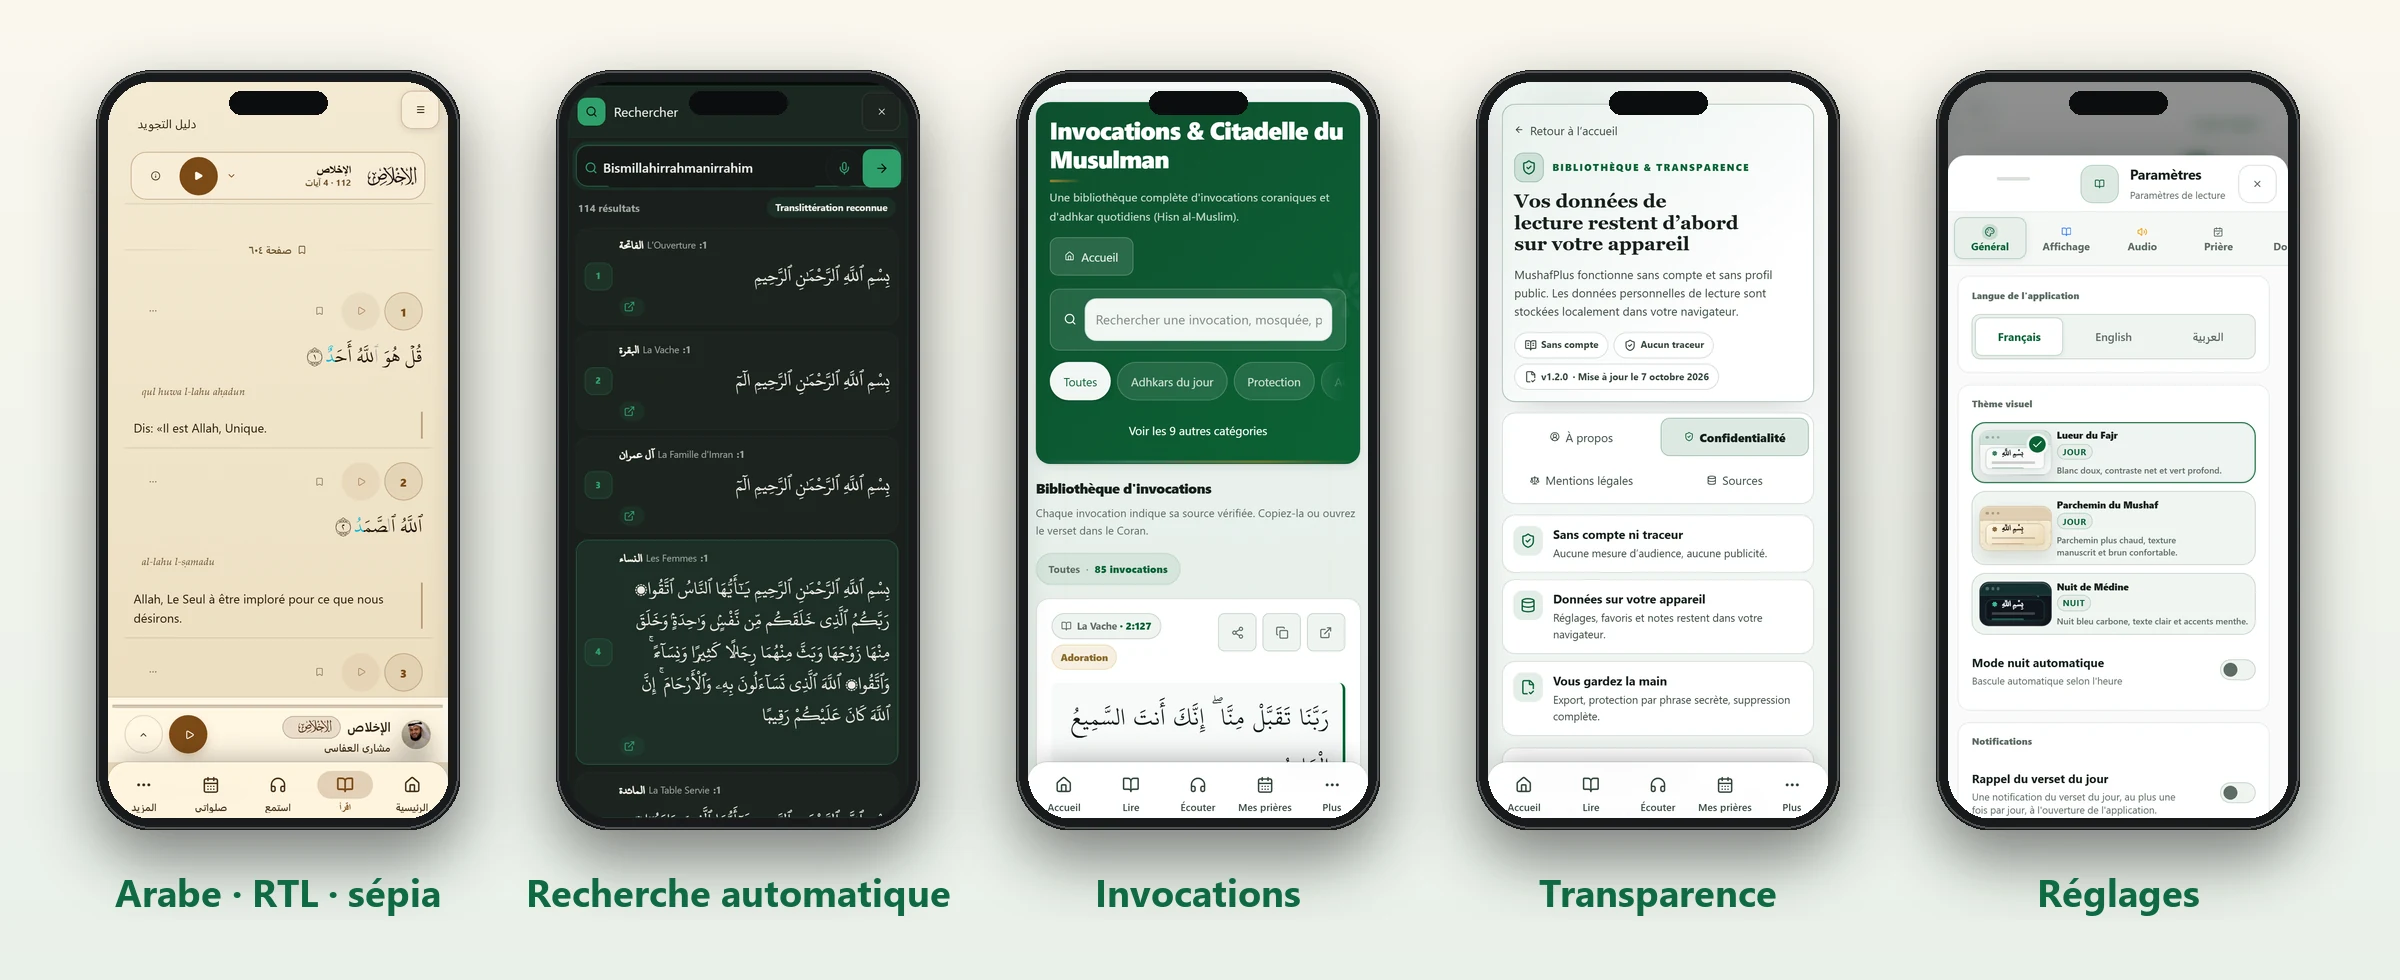
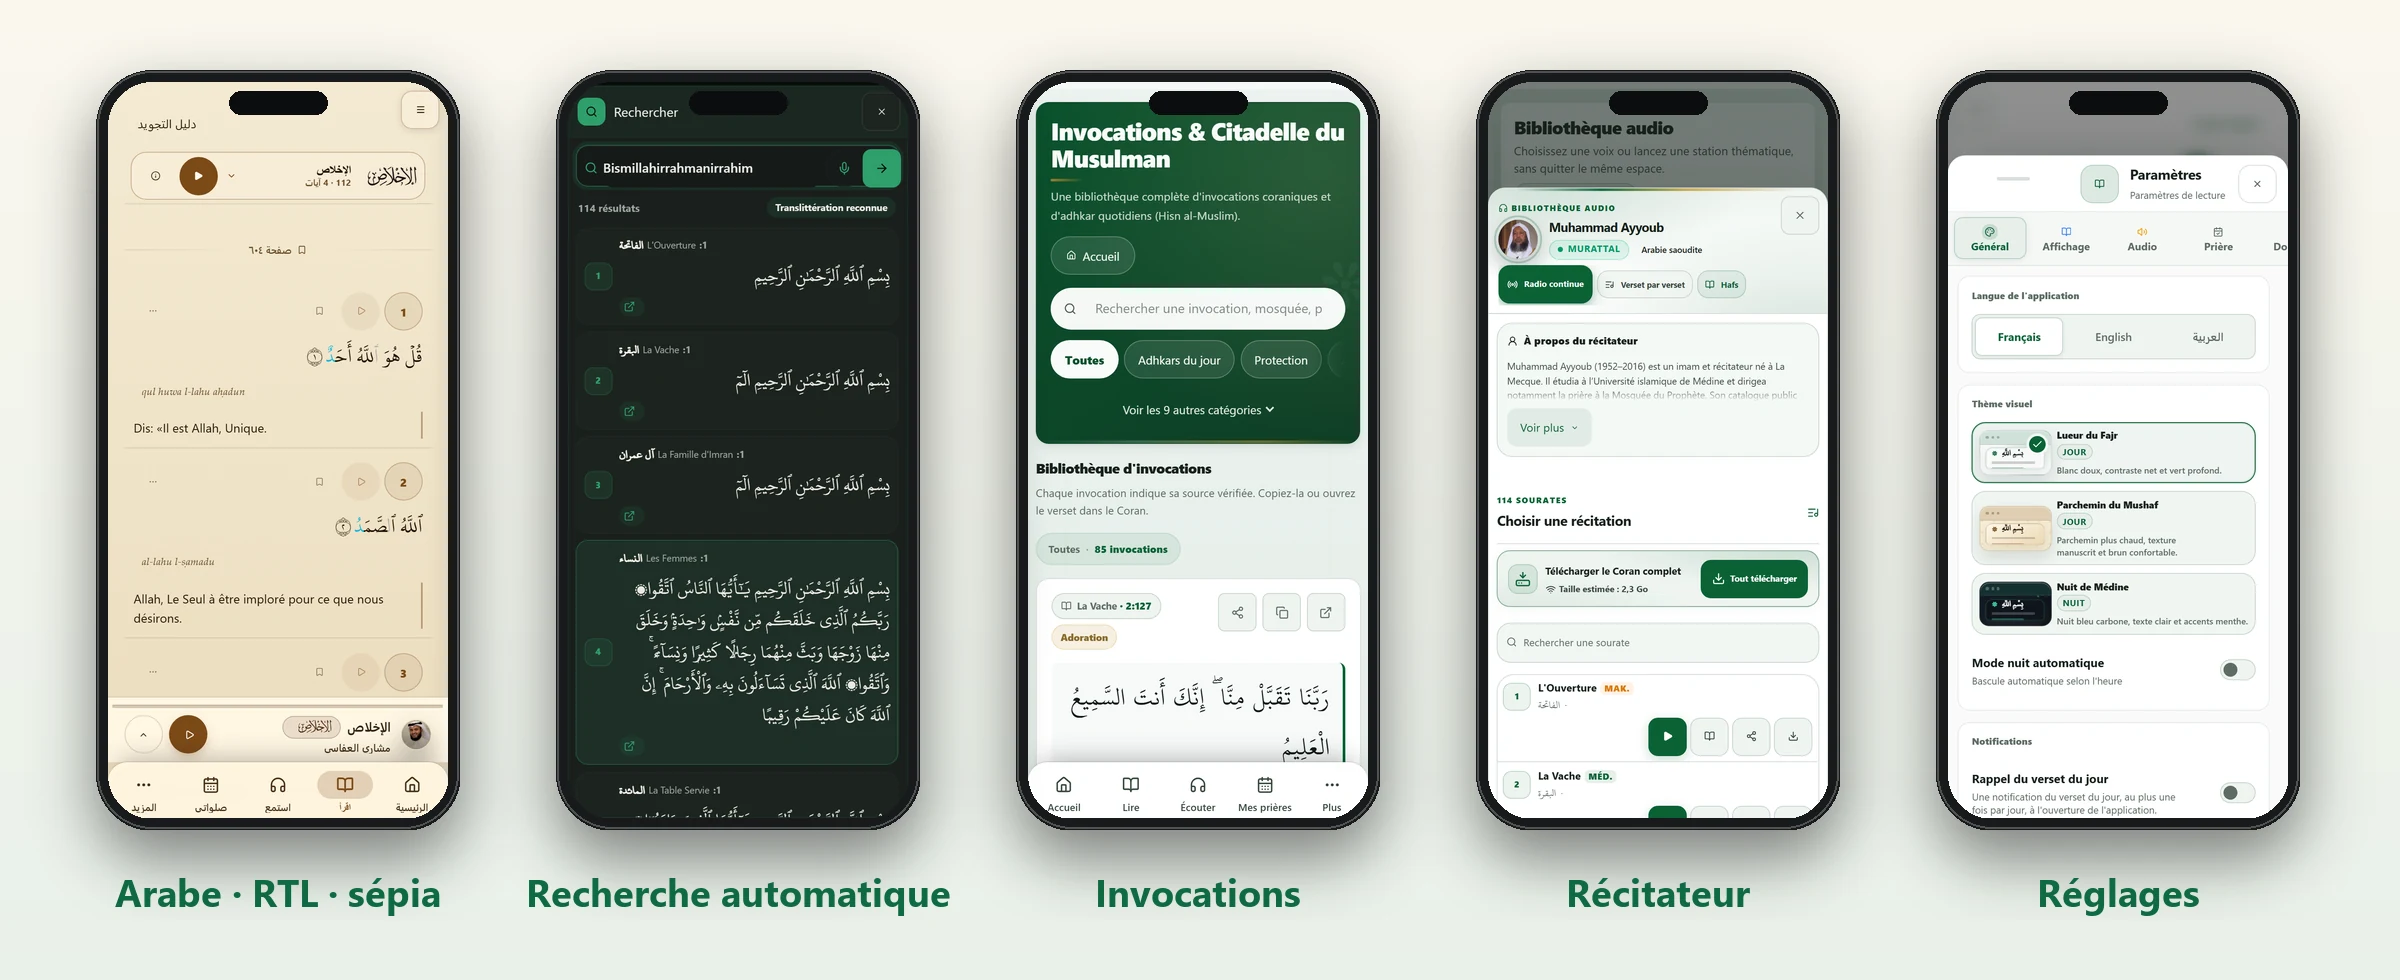
docs(readme): screenshots of the latest improvements (#57)
Recapture the gallery after the shared hero surface, the animated splash, the
reworked Invocations hero and the reciter sheet order; new phone strip (splash,
Mes prieres, transparency, home); README text for the splash and the common
palette. The capture script can freeze the splash at a given moment.

diff --git a/scripts/build-readme-images.py b/scripts/build-readme-images.py
@@ -204,7 +204,9 @@ def strip(items, name, width=1900, per_row=None, cap_size=38):
 strip([("home-mobile", "Accueil"), ("reader-mushaf-mobile", "Mushaf · Tajwid"), ("reader-mobile", "Liste · traduction"),
        ("audio-mobile", "54 récitateurs"), ("menu-mobile", "Menu · mode sombre")], "devices-phone.webp", width=2400, cap_size=42)
 strip([("reader-arabic-mobile", "Arabe · RTL · sépia"), ("search-auto-mobile", "Recherche automatique"), ("duas-mobile", "Invocations"),
-       ("about-mobile", "Transparence"), ("settings-mobile", "Réglages")], "devices-phone-2.webp", width=2400, cap_size=38)
+       ("reciter-mobile", "Récitateur"), ("settings-mobile", "Réglages")], "devices-phone-2.webp", width=2400, cap_size=38)
+strip([("splash-mobile", "Démarrage animé"), ("prayers-mobile", "Mes prières"), ("about-mobile", "Transparence"),
+       ("home-mobile", "Accueil")], "devices-phone-3.webp", width=2000, cap_size=40)
 
 # --- 3. tablets ---------------------------------------------------------------
 TW, TH = 2400, 1010

diff --git a/README.md b/README.md
@@ -49,7 +49,7 @@ MushafPlus is a free, static Progressive Web App for reading and listening to th
 
 ## 📸 Aperçu
 
-Une seule application, trois formats : l'interface s'adapte au téléphone (barre de navigation du bas), à la tablette (portrait et paysage) et à l'ordinateur (en-tête complet). Images mises à jour avec la version 1.2.0.
+Une seule application, trois formats : l'interface s'adapte au téléphone (barre de navigation du bas), à la tablette (portrait et paysage) et à l'ordinateur (en-tête complet). Images mises à jour avec la version 1.2.0 (charte verte commune, démarrage animé, fiche récitateur).
 
 ### 📱 Téléphone
 
@@ -57,7 +57,10 @@ Une seule application, trois formats : l'interface s'adapte au téléphone (barr
   <img src="docs/images/devices-phone.webp" alt="MushafPlus sur téléphone : accueil, mushaf avec Tajwid, liste avec traduction, 54 récitateurs, menu en mode sombre" width="100%">
 </p>
 <p align="center">
-  <img src="docs/images/devices-phone-2.webp" alt="MushafPlus sur téléphone : arabe RTL en sépia, recherche automatique, invocations, pages de transparence, réglages" width="100%">
+  <img src="docs/images/devices-phone-2.webp" alt="MushafPlus sur téléphone : arabe RTL en sépia, recherche automatique, invocations, fiche récitateur, réglages" width="100%">
+</p>
+<p align="center">
+  <img src="docs/images/devices-phone-3.webp" alt="MushafPlus sur téléphone : démarrage animé, Mes prières, pages de transparence, accueil" width="85%">
 </p>
 
 ### 📲 Tablette
@@ -127,6 +130,8 @@ Une seule application, trois formats : l'interface s'adapte au téléphone (barr
 - **Mobile d'abord** : barre de navigation du bas, zones tactiles ≥ 44 px, en-tête qui s'efface en lecture.
 - **Trois thèmes** (jour, sépia, nuit), mode nuit automatique, cibles tactiles et contrastes testés.
 - **Pages d'information** (À propos, Confidentialité, Mentions légales, Sources) en cartes responsives dès 240 px, avec attributions de chaque source.
+- **Démarrage animé** : le logo se révèle, un éclat doré le traverse, les lanternes respirent (séquence complète au premier lancement après 12 h, courte ensuite, fixe si les animations sont réduites).
+- **Charte unique** : une même surface verte (brune en sépia) pour les cartes d'accueil, « Mes prières » et « Invocations ».
 - Lecteur audio compact (barre de progression, titre de sourate en calligraphie), raccourcis clavier, plein écran, accessibilité vérifiée par axe-core.
 
 ---
